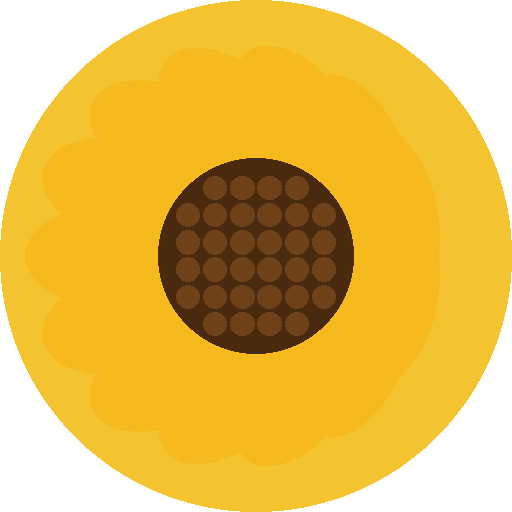
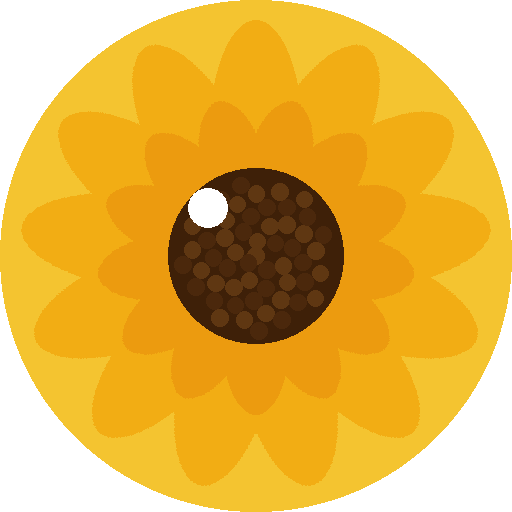
Add files via upload

diff --git a/app.js b/app.js
@@ -15,7 +15,8 @@ const DEFAULT_SETTINGS = {
   appsScriptUrl: "",        // ejemplo: https://script.google.com/macros/s/XXXX/exec
   apiKey: "",               // opcional (si lo quieres validar en Apps Script)
   exchangeRate: 3.75,       // tipo de cambio USD → PEN (soles)
-  heroBlur: 1.5             // blur del banner en px (0 = sin blur, 10 = máximo)
+  heroBlur: 1.5,            // blur del banner en px (0 = sin blur, 10 = máximo)
+  heroOverlay: 0.75         // opacidad del filtro blanco sobre la imagen (0 = sin filtro, 1 = blanco total)
 };
 
 // IMPORTANT:
@@ -4716,6 +4717,22 @@ function openSettings(){
         <div class="itemMeta" style="margin-top:4px">Controla el desenfoque de la imagen que pones en el hero.</div>
       </div>
 
+      <div class="row">
+        <label class="label">Opacidad del filtro blanco</label>
+        <div style="display:flex;align-items:center;gap:12px;margin-top:4px">
+          <span class="itemMeta" style="min-width:60px">Sin filtro</span>
+          <input type="range" id="mHeroOverlay" min="0" max="1" step="0.05"
+            value="${SETTINGS.heroOverlay ?? 0.75}"
+            style="flex:1;accent-color:#F4C430" />
+          <span class="itemMeta" style="min-width:60px">Total</span>
+        </div>
+        <div style="display:flex;align-items:center;gap:6px;margin-top:6px">
+          <span class="itemMeta">Filtro actual:</span>
+          <strong id="mHeroOverlayVal" style="font-size:13px;color:#3A2318">${Math.round((SETTINGS.heroOverlay ?? 0.75)*100)}%</strong>
+        </div>
+        <div class="itemMeta" style="margin-top:4px">A 0% la imagen se ve directa. Sube para que el texto quede más legible.</div>
+      </div>
+
       <div class="divider"></div>
 
       <div class="row">
@@ -4745,11 +4762,32 @@ function openSettings(){
   const blurSlider = $("#mHeroBlur");
   const blurVal = $("#mHeroBlurVal");
   const bgImgEl = document.getElementById("heroBgImage");
+  const bgOvlEl = document.getElementById("heroBgOverlay");
   if(blurSlider){
     blurSlider.addEventListener("input", () => {
       const v = parseFloat(blurSlider.value);
       blurVal.textContent = v + "px";
       if(bgImgEl) bgImgEl.style.filter = "blur(" + v + "px)";
+    });
+  }
+
+  // Live overlay preview
+  const ovlSlider = $("#mHeroOverlay");
+  const ovlVal = $("#mHeroOverlayVal");
+  function applyOverlayOpacity(opacity){
+    if(!bgOvlEl) return;
+    bgOvlEl.style.background =
+      "linear-gradient(to right," +
+      "rgba(254,250,244," + opacity + ") 0%," +
+      "rgba(254,250,244," + (opacity * 0.85) + ") 45%," +
+      "rgba(254,250,244," + (opacity * 0.95) + ") 65%," +
+      "rgba(254,250,244," + Math.min(opacity + 0.08, 1) + ") 100%)";
+  }
+  if(ovlSlider){
+    ovlSlider.addEventListener("input", () => {
+      const v = parseFloat(ovlSlider.value);
+      ovlVal.textContent = Math.round(v * 100) + "%";
+      applyOverlayOpacity(v);
     });
   }
 
@@ -4763,6 +4801,11 @@ function openSettings(){
     if(!isNaN(newBlur)) {
       SETTINGS.heroBlur = newBlur;
       if(bgImgEl) bgImgEl.style.filter = "blur(" + newBlur + "px)";
+    }
+    const newOverlay = parseFloat(ovlSlider ? ovlSlider.value : 0.75);
+    if(!isNaN(newOverlay)) {
+      SETTINGS.heroOverlay = newOverlay;
+      applyOverlayOpacity(newOverlay);
     }
     saveSettings();
     updateSyncUI();
@@ -4851,9 +4894,20 @@ window.addEventListener("pagehide", () => saveState());
     const blur = (SETTINGS && SETTINGS.heroBlur != null) ? SETTINGS.heroBlur : 1.5;
     bgImg.style.filter = 'blur(' + blur + 'px)';
   }
+  function applyOverlay(){
+    if(!bgOvl) return;
+    const opacity = (SETTINGS && SETTINGS.heroOverlay != null) ? SETTINGS.heroOverlay : 0.75;
+    bgOvl.style.background =
+      'linear-gradient(to right,' +
+      'rgba(254,250,244,' + opacity + ') 0%,' +
+      'rgba(254,250,244,' + (opacity * 0.85) + ') 45%,' +
+      'rgba(254,250,244,' + (opacity * 0.95) + ') 65%,' +
+      'rgba(254,250,244,' + Math.min(opacity + 0.08, 1) + ') 100%)';
+  }
   function showImage(src){
     bgImg.style.backgroundImage = 'url(' + src + ')';
     applyBlur();
+    applyOverlay();
     bgImg.classList.remove('hidden');
     bgOvl.classList.remove('hidden');
     heroCard.classList.add('has-bg-image');

diff --git a/index.html b/index.html
@@ -6,7 +6,8 @@
   <meta name="theme-color" content="#F4C430" />
   <title>Fergis Assistant 🌻</title>
   <link rel="manifest" href="./manifest.webmanifest" />
-  <link rel="icon" href="./assets/icon-192.png" />
+  <link rel="icon" href="./assets/favicon.png" sizes="32x32" />
+  <link rel="apple-touch-icon" href="./assets/icon-192.png" />
   <link rel="preconnect" href="https://fonts.googleapis.com" />
   <link rel="preconnect" href="https://fonts.gstatic.com" crossorigin />
   <link rel="stylesheet" href="./styles.css" />
